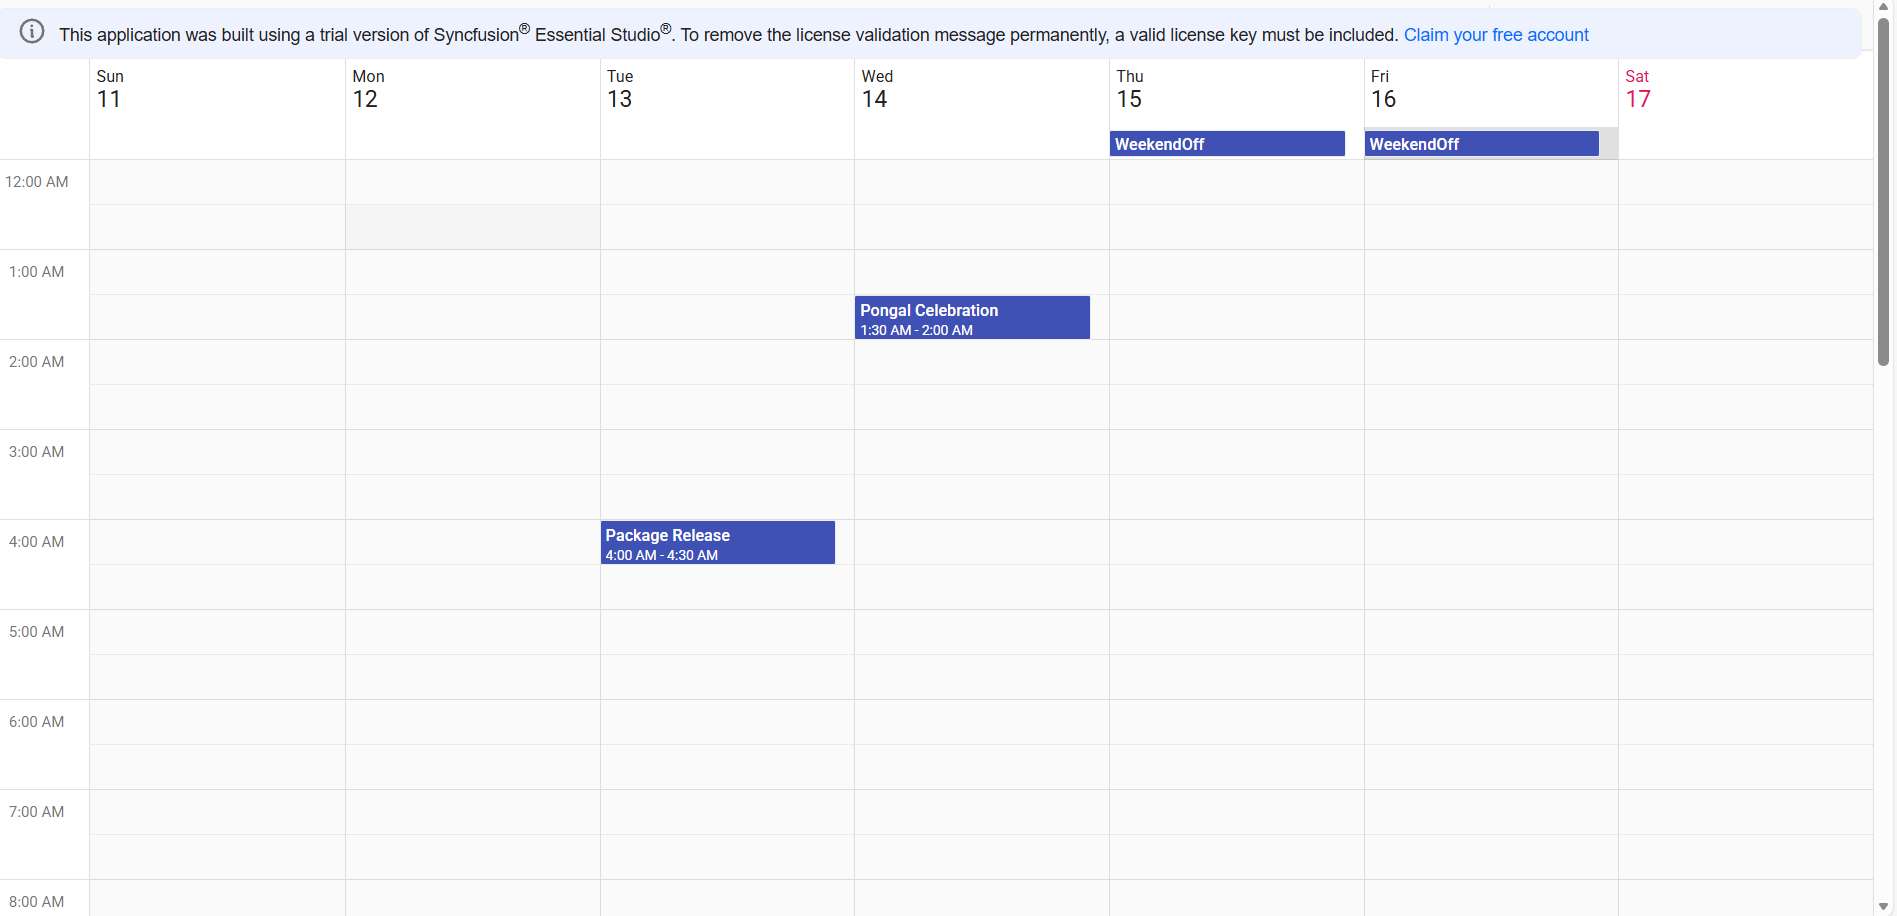
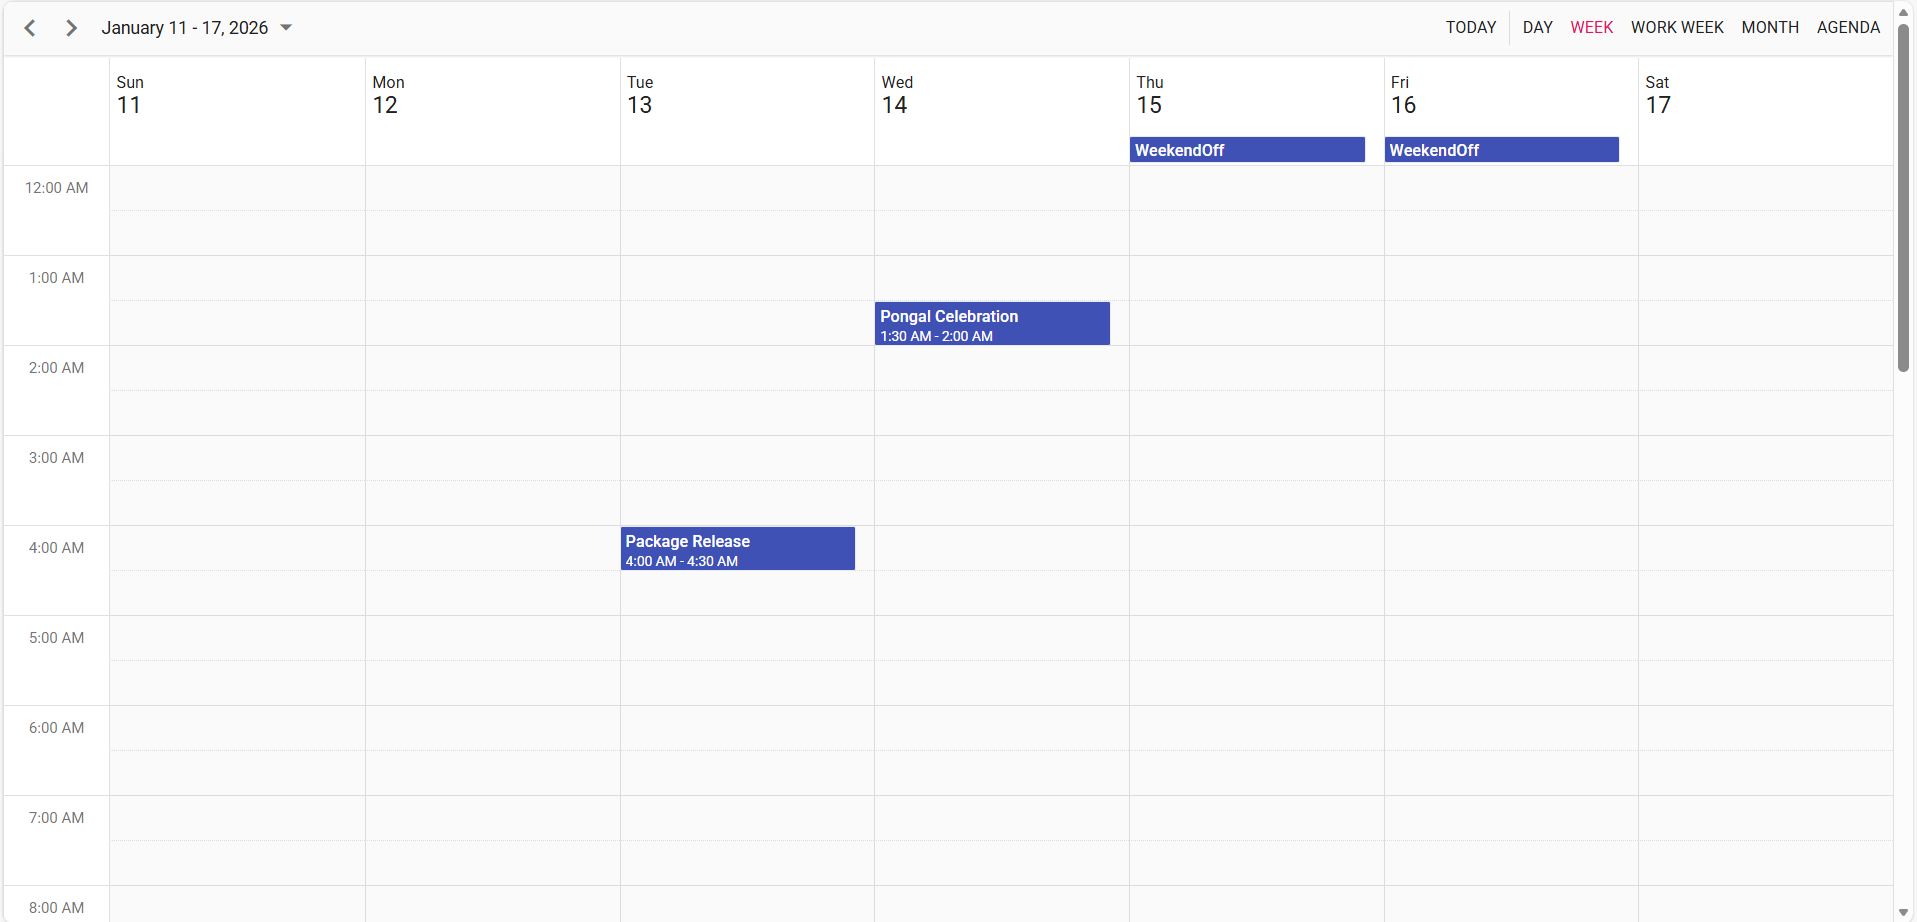
Resolve the Suggested Changes

diff --git a/README.md b/README.md
@@ -1,71 +1,19 @@
-<!--
-  howto.md
-  A step-by-step guide to integrate MySQL with Syncfusion React Scheduler using Django 
--->
+# react-scheduler-crud-django-mysql
 
-# How to integrate MySQL with Syncfusion React Scheduler using Django
+Syncfusion [React Scheduler](https://ej2.syncfusion.com/react/demos/#/material3/schedule/overview) CRUD Application with Django and MySQL database.
 
-This repository contains a sample full-stack application demonstrating how to synchronize events between MySQL database and the Syncfusion React Scheduler component using Django.The React frontend provides a responsive UI for viewing and managing  events.
+# Pre-requisites
 
-## Prerequisites
-- Node.js (>= 18.0)
-- npm (>= 8.0)
-- Python(>= 10.3.1)
-- DJango(>= 6.0.1)
-- MySQL(>= 8.0.41.0)
-- React(>= 18.3)
-- A MySQL Database with Username and Password (create at https://dev.mysql.com/downloads/installer/)
-- Basic familiarity with React, Python and MySQL Query
-- Make sure the ports nothing run on 8000 , 3000
-
-## Project Structure
-```
-├── README.md                           # This guide
-├── backend                             # backend configuration
-│   ├── scheduler   
-│   │    ├── _init_.py
-│   │    ├── asgi.py
-│   │    ├── settings.py                # Connect Database
-│   │    ├── urls.py
-│   │    ├── wsgi.py
-│   ├── schedulerCrud  
-│   │    ├── migrations
-|   │    │    ├──  _init_.py 
-│   │    ├── _init_.py
-│   │    ├── admin.py
-│   │    ├── apps.py
-│   │    ├── models.py                 # Table Structure
-│   │    ├── serializers
-│   │    ├── tests.py
-│   │    ├── urls.py
-│   │    ├── views.py                  # Process Scheduler CRUD Request
-│   ├── manage.py                      # Starting the server
-├── public
-│    ├── index.html
-├── src
-│    ├── App.css       
-│    ├── App.test.tsx
-│    ├── App.tsx                        # Scheduler Configuration
-│    ├── index.css
-│    ├── index.tsx
-│    ├── logo.svg
-│    ├── react-app-env.d.ts
-│    ├── setupTests.ts  
-├── package.json
-│── tsconfig.json
-
-```
-## Setup
+1. Python 3.6 or above
+2. Django 3.0 or above
+3. MySQL 5.7 or above
+4. React 16.8 or above
+5. Node 16.17 or above
 
 
-### Cloning the repository
-    
-- Clone the repository to your local machine
-
-### Backend Setup
-
-### Installation
-- Run the following command to install the required packages
+# Steps to run the project
+1. Clone the repository
+2. Run the following command to install the required packages
     ```
     pip install django-cors-headers
     pip install djangorestframework
@@ -73,17 +21,21 @@ This repository contains a sample full-stack application demonstrating how to sy
     pip install dj-database-url
     pip install mysqlclient
     ```
-- Go to the backend directory 
-### MySQL Configuration
-- Create a MySQL user with a chosen username and password and create a new database`.
-- In `backend/scheduler/settings.py` file update the USER, PASSWORD, and DB as per the database configuration.
-
-    ```ini
-    NAME=<Your-database-name>
-    USER=<your-user-name>
-    PASSWORD=<password-for-specific-user>
+3. Go to the backend directory 
+4. Need to configure your database in the `backend/scheduler/settings.py` file
+   ```
+   DATABASES = {
+        'default': {
+            'ENGINE': 'django.db.backends.mysql',
+            'NAME': 'Your database',
+            'USER': 'Your username',
+            'PASSWORD': 'Your password',
+            'HOST': 'localhost',   # Or an IP Address that your DB is hosted on
+            'PORT': '3306',
+        }
+    }
     ```
-- We need to create table in the mysql database. Run the following command to create the table
+5. We need to create table in the mysql database. Run the following command to create the table
 
     ```
    python manage.py makemigrations
@@ -91,40 +43,24 @@ This repository contains a sample full-stack application demonstrating how to sy
    python manage.py migrate
 
    ```
-### Available Endpoints
-The Django server (`views.py`) exposes the following REST routes:
-| Method | URL                          | Description                         |
-| ------ | ---------------------------- | ----------------------------------- |
-| GET    | `Home/GetData`    | List events in the given time range |
-| POST   | `Home/UpdateData`                | Create a new ,edit and delete event. 
+6. Now lets run the server
 
-### Frontend Setup
-
-### Installation
-
-1. Open the project directory in terminal to install the required packages. 
-
-    ```bash
-    npm install
     ```
-### Running the Application
-1. Open a terminal and navigate to backend folder
-      ```bash
-    cd backend
-    ```
-2. Start the backend server:
-    ```bash
     python manage.py runserver
     ```
-3. Server started running on `http://localhost:8000`
-4. Open another terminal and start the frontend:
-    ```bash
-    npm start
-    ```
-5. Navigate to [`http://localhost:3000`](http://localhost:3000) in your browser.
+    you will see the server is running at http://127.0.0.1:8000/
 
-6. You can perform CRUD operation on the scheduler that will be reflected in the MySQL database table.
- 
+7. Now open another terminal, on the root directory, run the following command to install the required packages
+    ```
+    npm install
+    ```
+8. Run the following command to start the react server
+    ```
+    npm run start
+    ```
+    you will see the react server is running at http://localhost:3000/
+
+9. Now you can see the scheduler application running in the browser, and you can able to perform crud operations in the scheduler.
 
 ## Output Preview
 ![Frontend Preview](./Outputs/Frontend.png)
